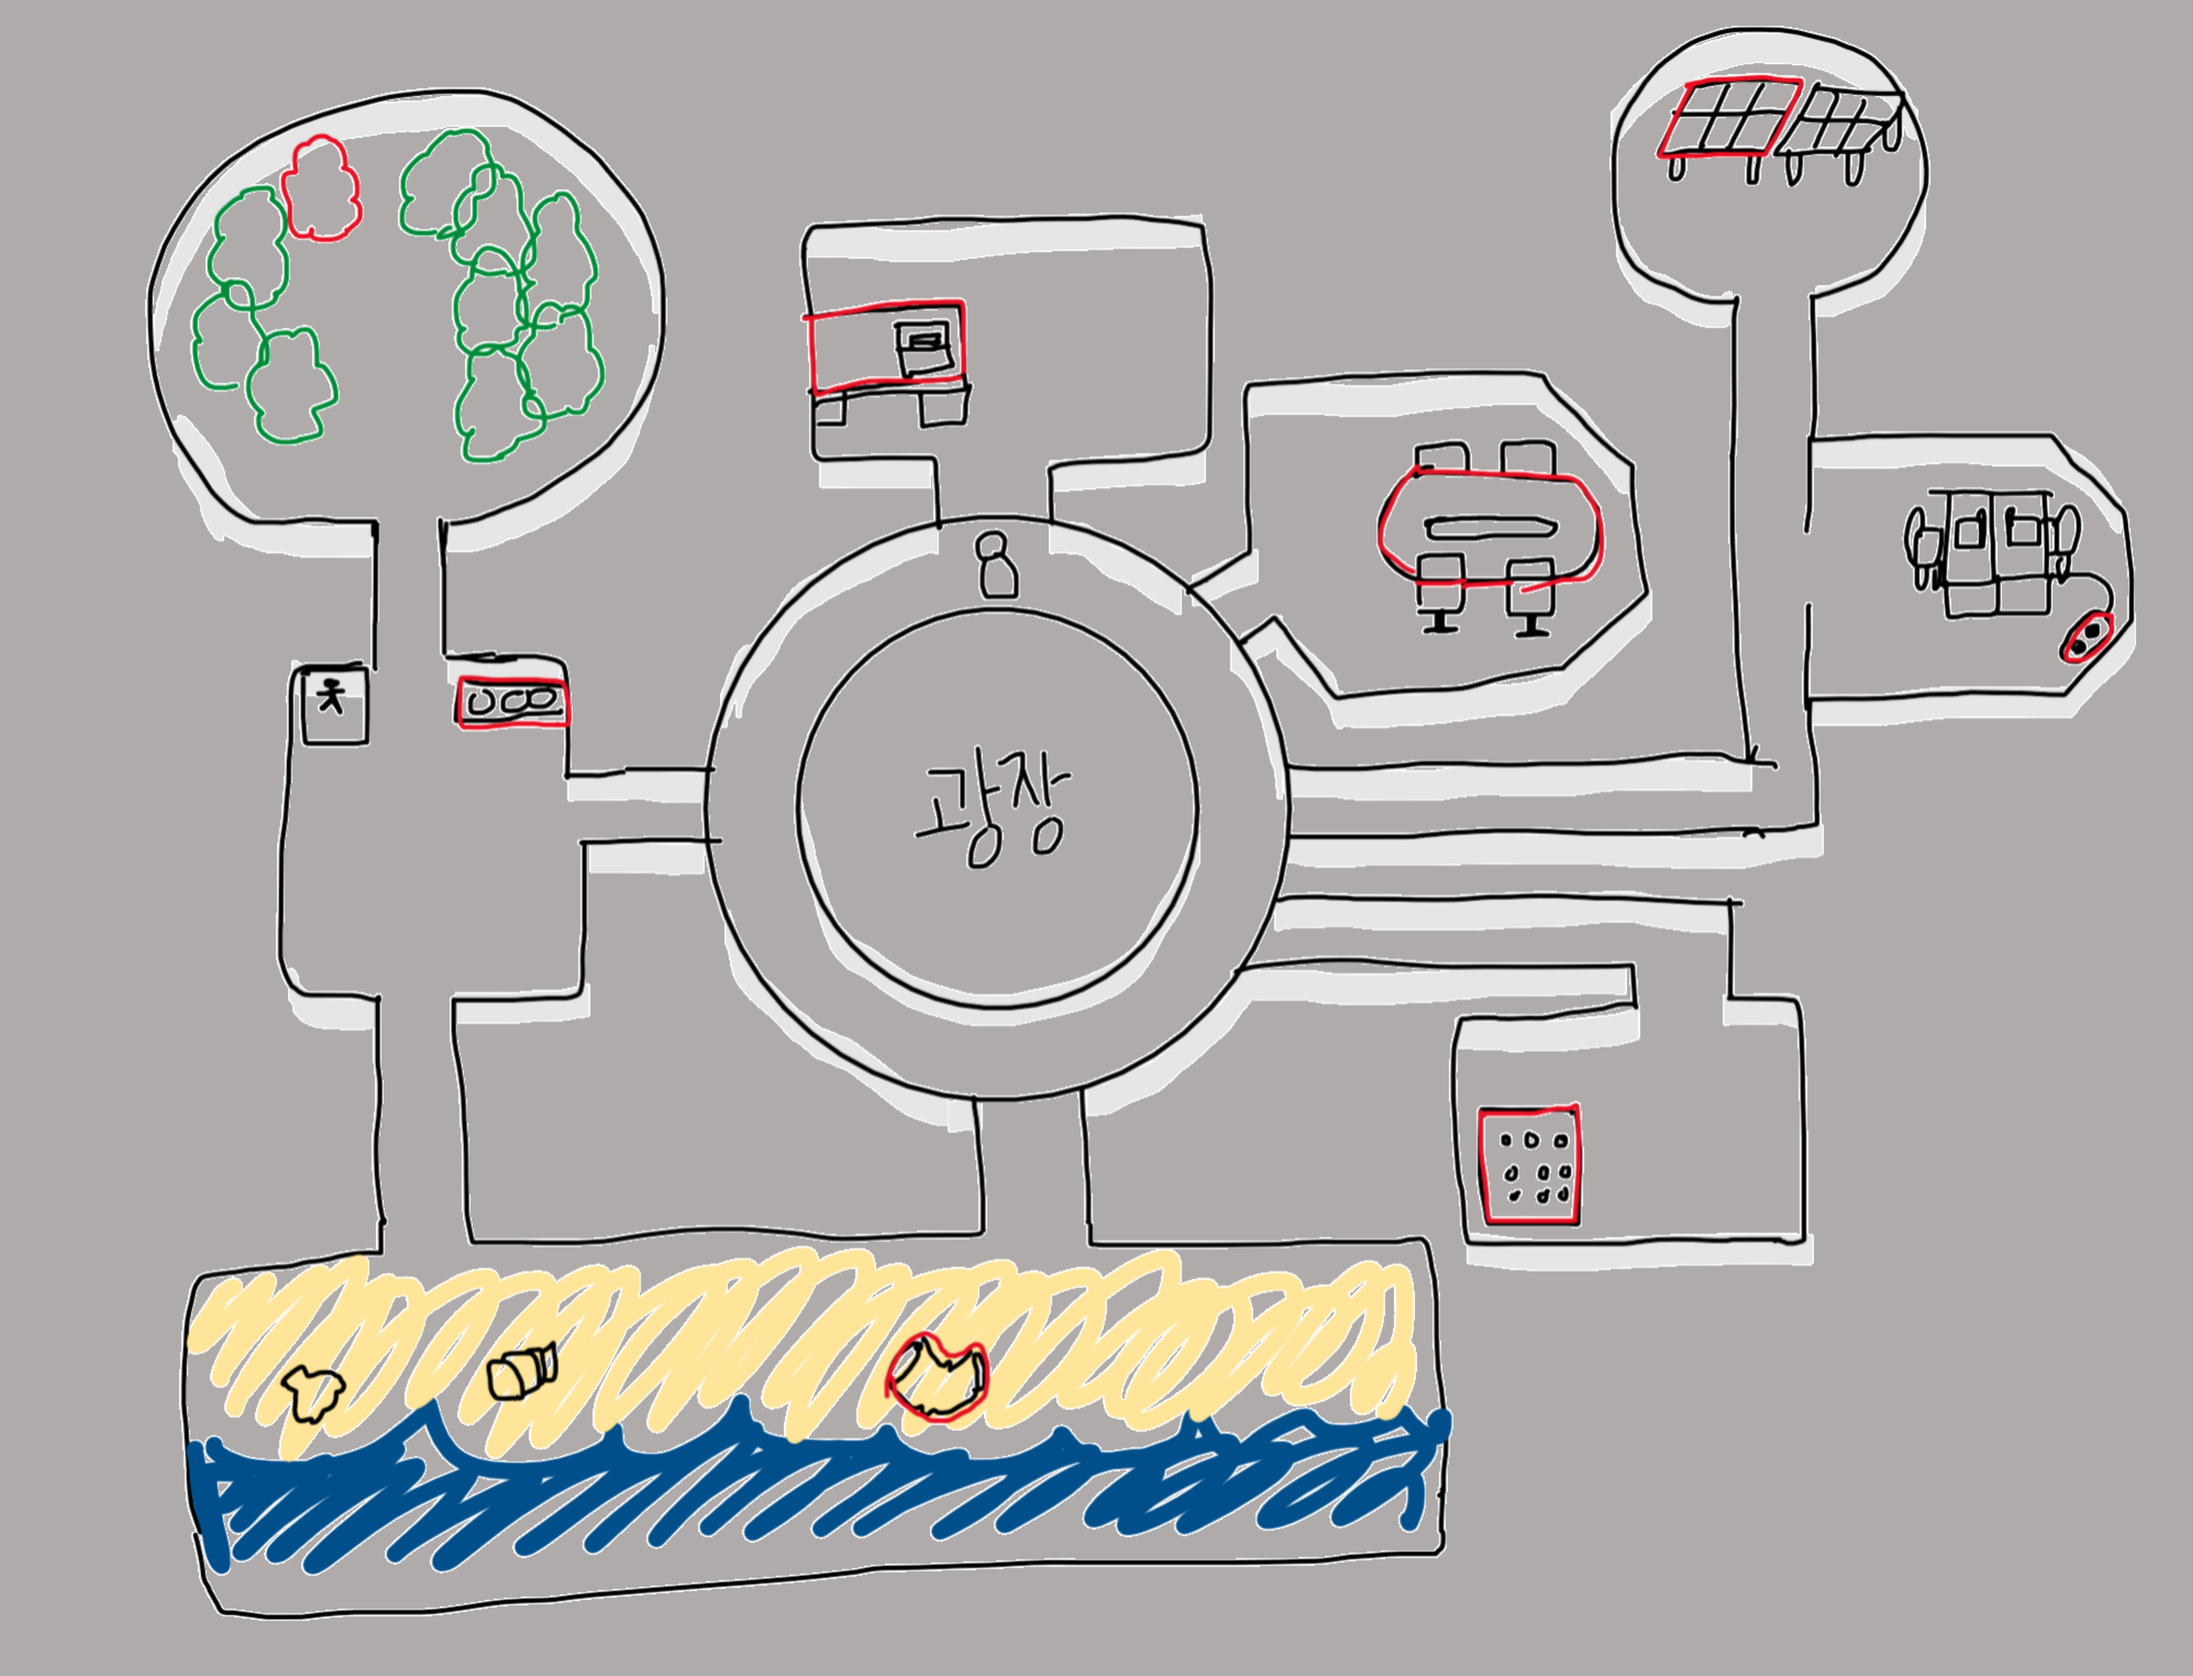
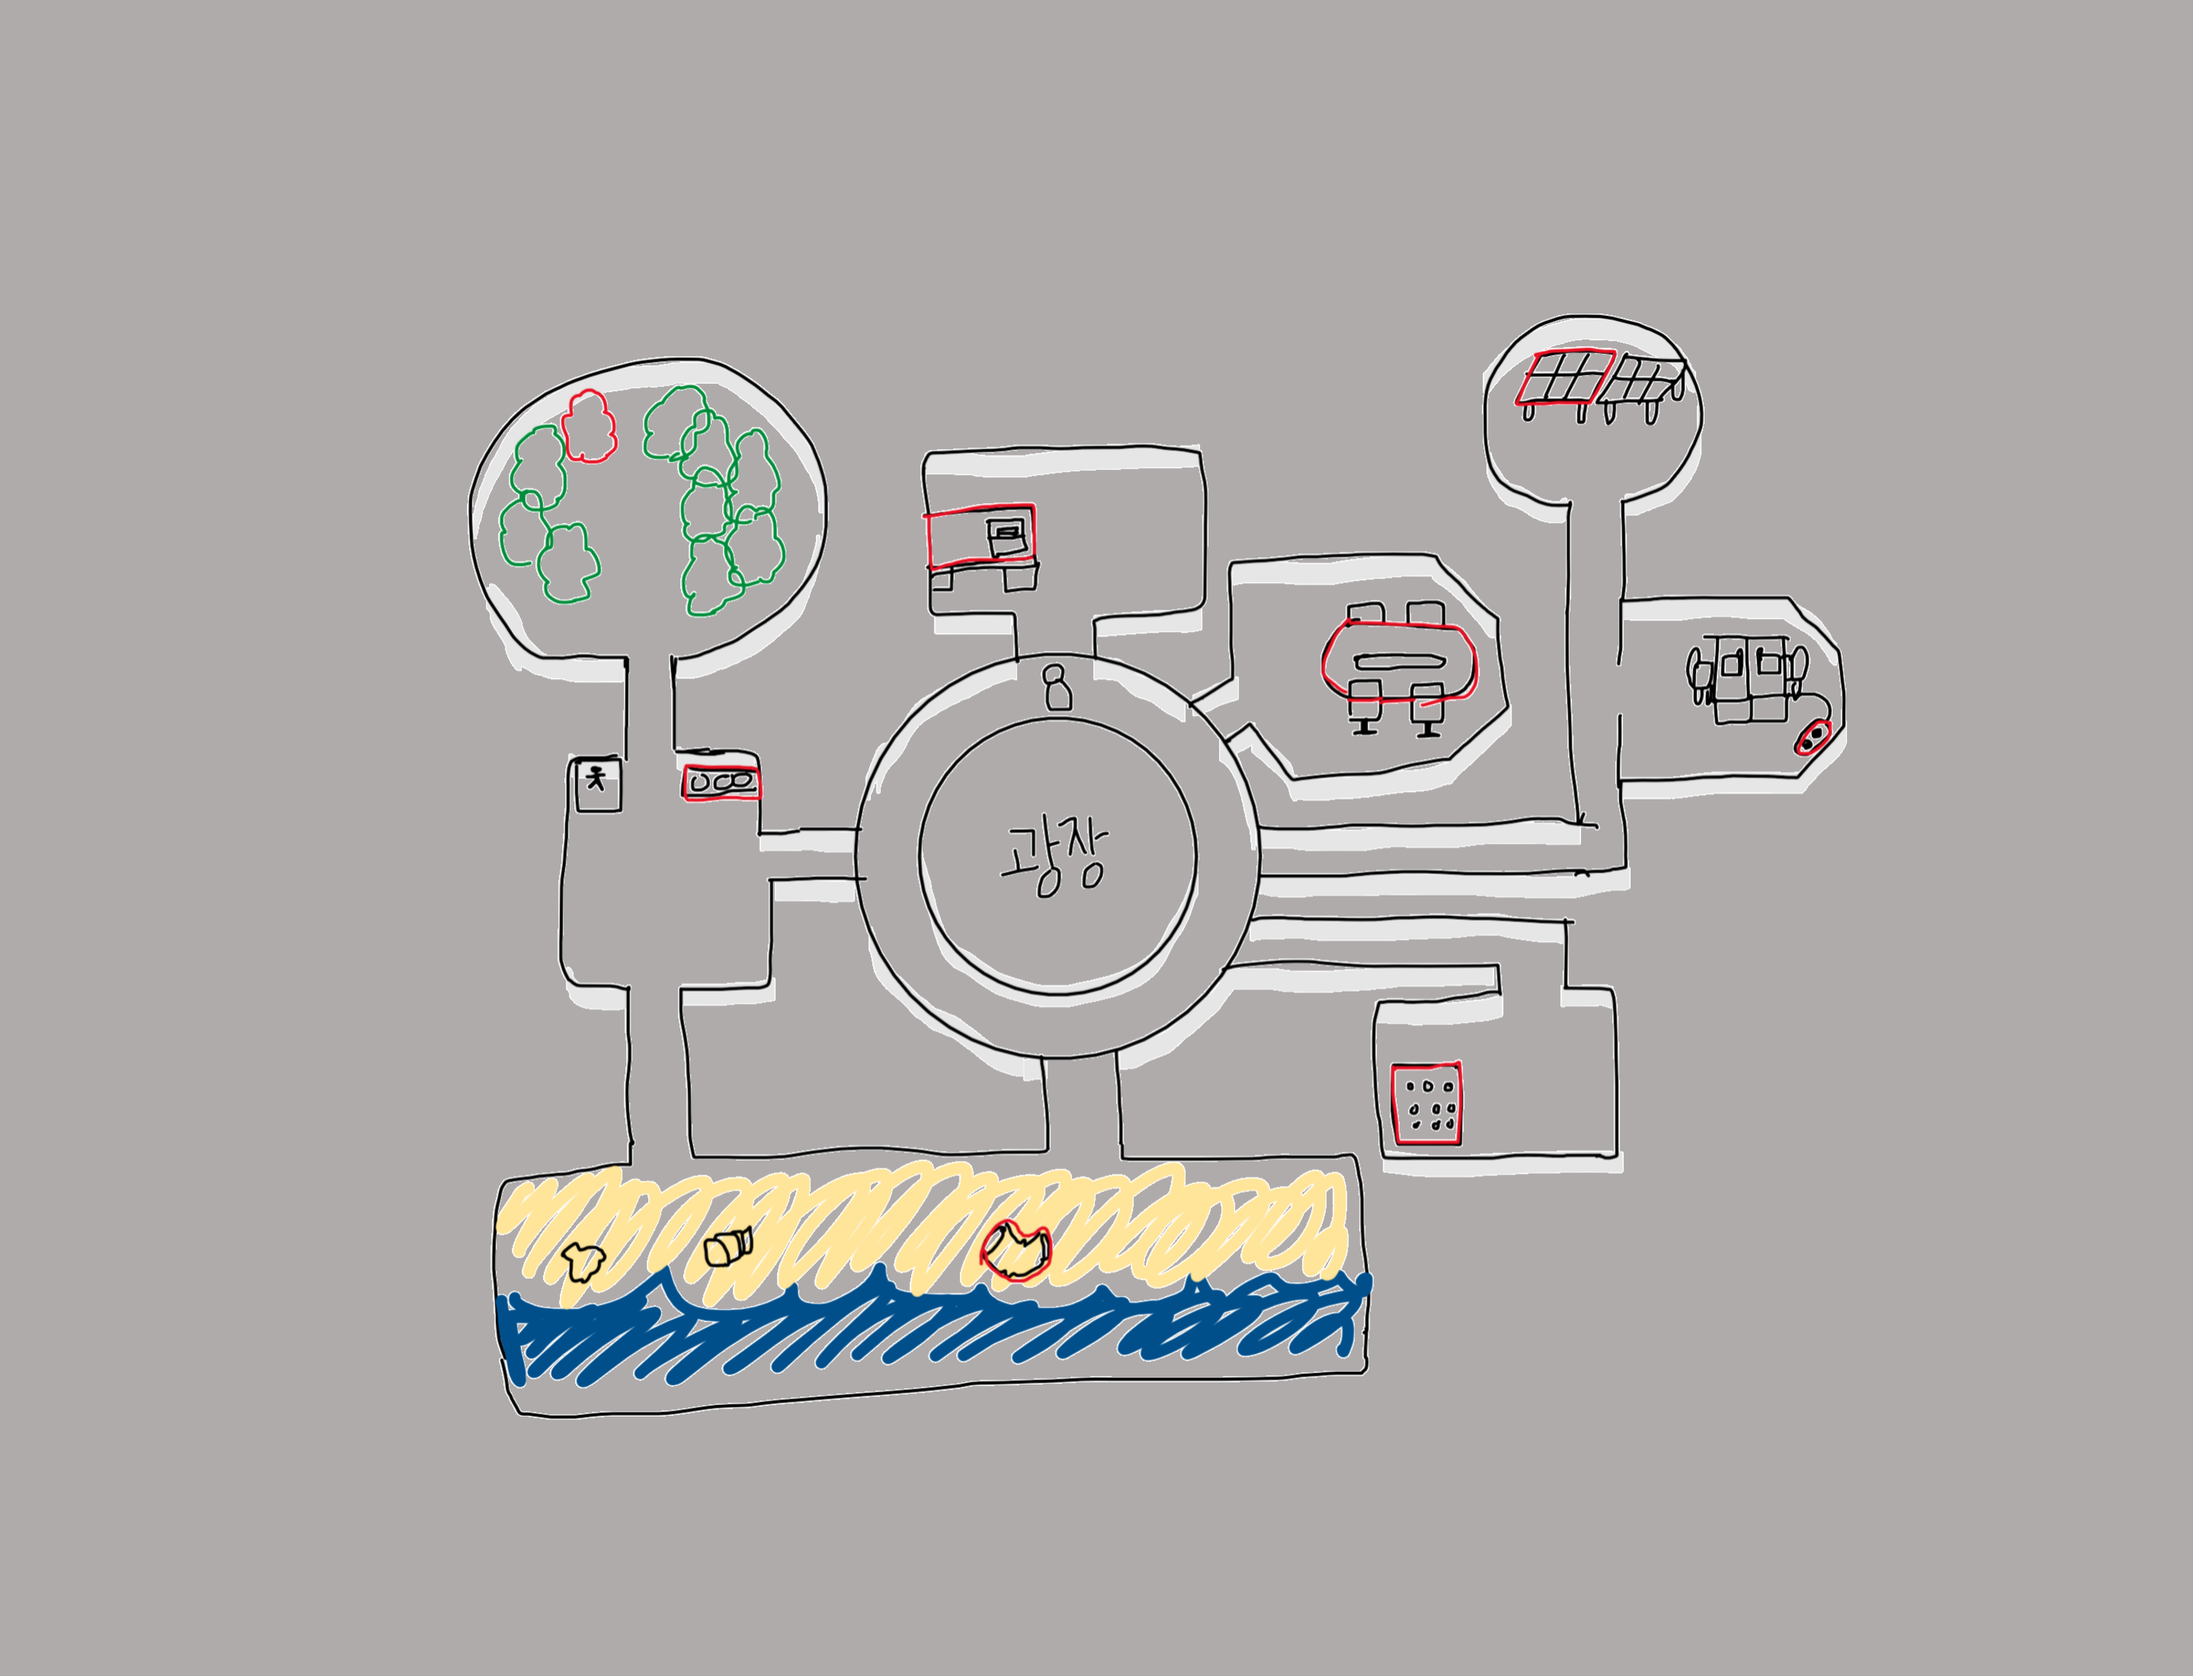
character move & camera following

Changed region(s): [[0.0622, 0.0, 0.9958, 0.9907]]

diff --git a/lib/feature/game/game_main.dart b/lib/feature/game/game_main.dart
@@ -23,13 +23,15 @@ class MyGame extends FlameGame {
 
   late final JoystickComponent joystick;
 
+  double maxSpeed = -300;
+
   @override
   FutureOr<void> onLoad() async {
-    background = SpriteComponent(sprite: await loadSprite("map.png"))
-      ..size = (size[0] > size[1])
-          ? Vector2(size[1] * 3085 / 2358, size[1])
-          : Vector2(size[0], size[0] * 2358 / 3085)
-      ..anchor = Anchor.topLeft;
+    Sprite backgroundSprite = await loadSprite("map.png");
+    background = SpriteComponent(sprite: backgroundSprite)
+      ..size = backgroundSprite.originalSize * 3
+      ..anchor = Anchor.center
+      ..position = Vector2(size[0] * 0.5, size[1] * 0.5);
     add(background);
 
     final knobPaint = BasicPalette.blue.withAlpha(200).paint();
@@ -40,8 +42,9 @@ class MyGame extends FlameGame {
       margin: const EdgeInsets.only(left: 40, bottom: 40),
     );
 
-    player = Player("people", joystick);
+    player = Player("people", size);
     add(player);
+    camera.follow(player);
     camera.viewport.add(joystick);
 
     return super.onLoad();
@@ -50,5 +53,11 @@ class MyGame extends FlameGame {
   @override
   void update(double dt) {
     super.update(dt);
+
+    if (!joystick.delta.isZero()) {
+      background.position.add(joystick.relativeDelta * maxSpeed * dt);
+      player.transform.scale =
+          Vector2((joystick.relativeDelta.x > 0) ? -1 : 1, 1);
+    }
   }
 }

diff --git a/lib/feature/game/sprites/characters.dart b/lib/feature/game/sprites/characters.dart
@@ -9,13 +9,13 @@ class Player extends SpriteComponent with HasGameRef, CollisionCallbacks {
   String role;
 
   double maxSpeed = 300.0;
-  late final Vector2 _lastSize = size.clone();
-  late final Transform2D _lastTransform = transform.clone();
+  late final Vector2 screensize;
 
-  JoystickComponent joystick;
-
-  Player(this.role, this.joystick)
-      : super(size: Vector2.all(100.0), anchor: Anchor.center);
+  Player(this.role, this.screensize)
+      : super(
+            size: Vector2.all(100.0),
+            anchor: Anchor.center,
+            position: Vector2(screensize.x * 0.5, screensize.y * 0.5));
 
   @override
   FutureOr<void> onLoad() async {
@@ -28,12 +28,5 @@ class Player extends SpriteComponent with HasGameRef, CollisionCallbacks {
   void update(double dt) {
     // TODO: implement update
     super.update(dt);
-
-    if (!joystick.delta.isZero() && activeCollisions.isEmpty) {
-      _lastSize.setFrom(size);
-      _lastTransform.setFrom(transform);
-      position.add(joystick.relativeDelta * maxSpeed * dt);
-      scale = Vector2(joystick.relativeDelta.x > 0 ? -1 : 1, 1.0);
-    }
   }
 }
